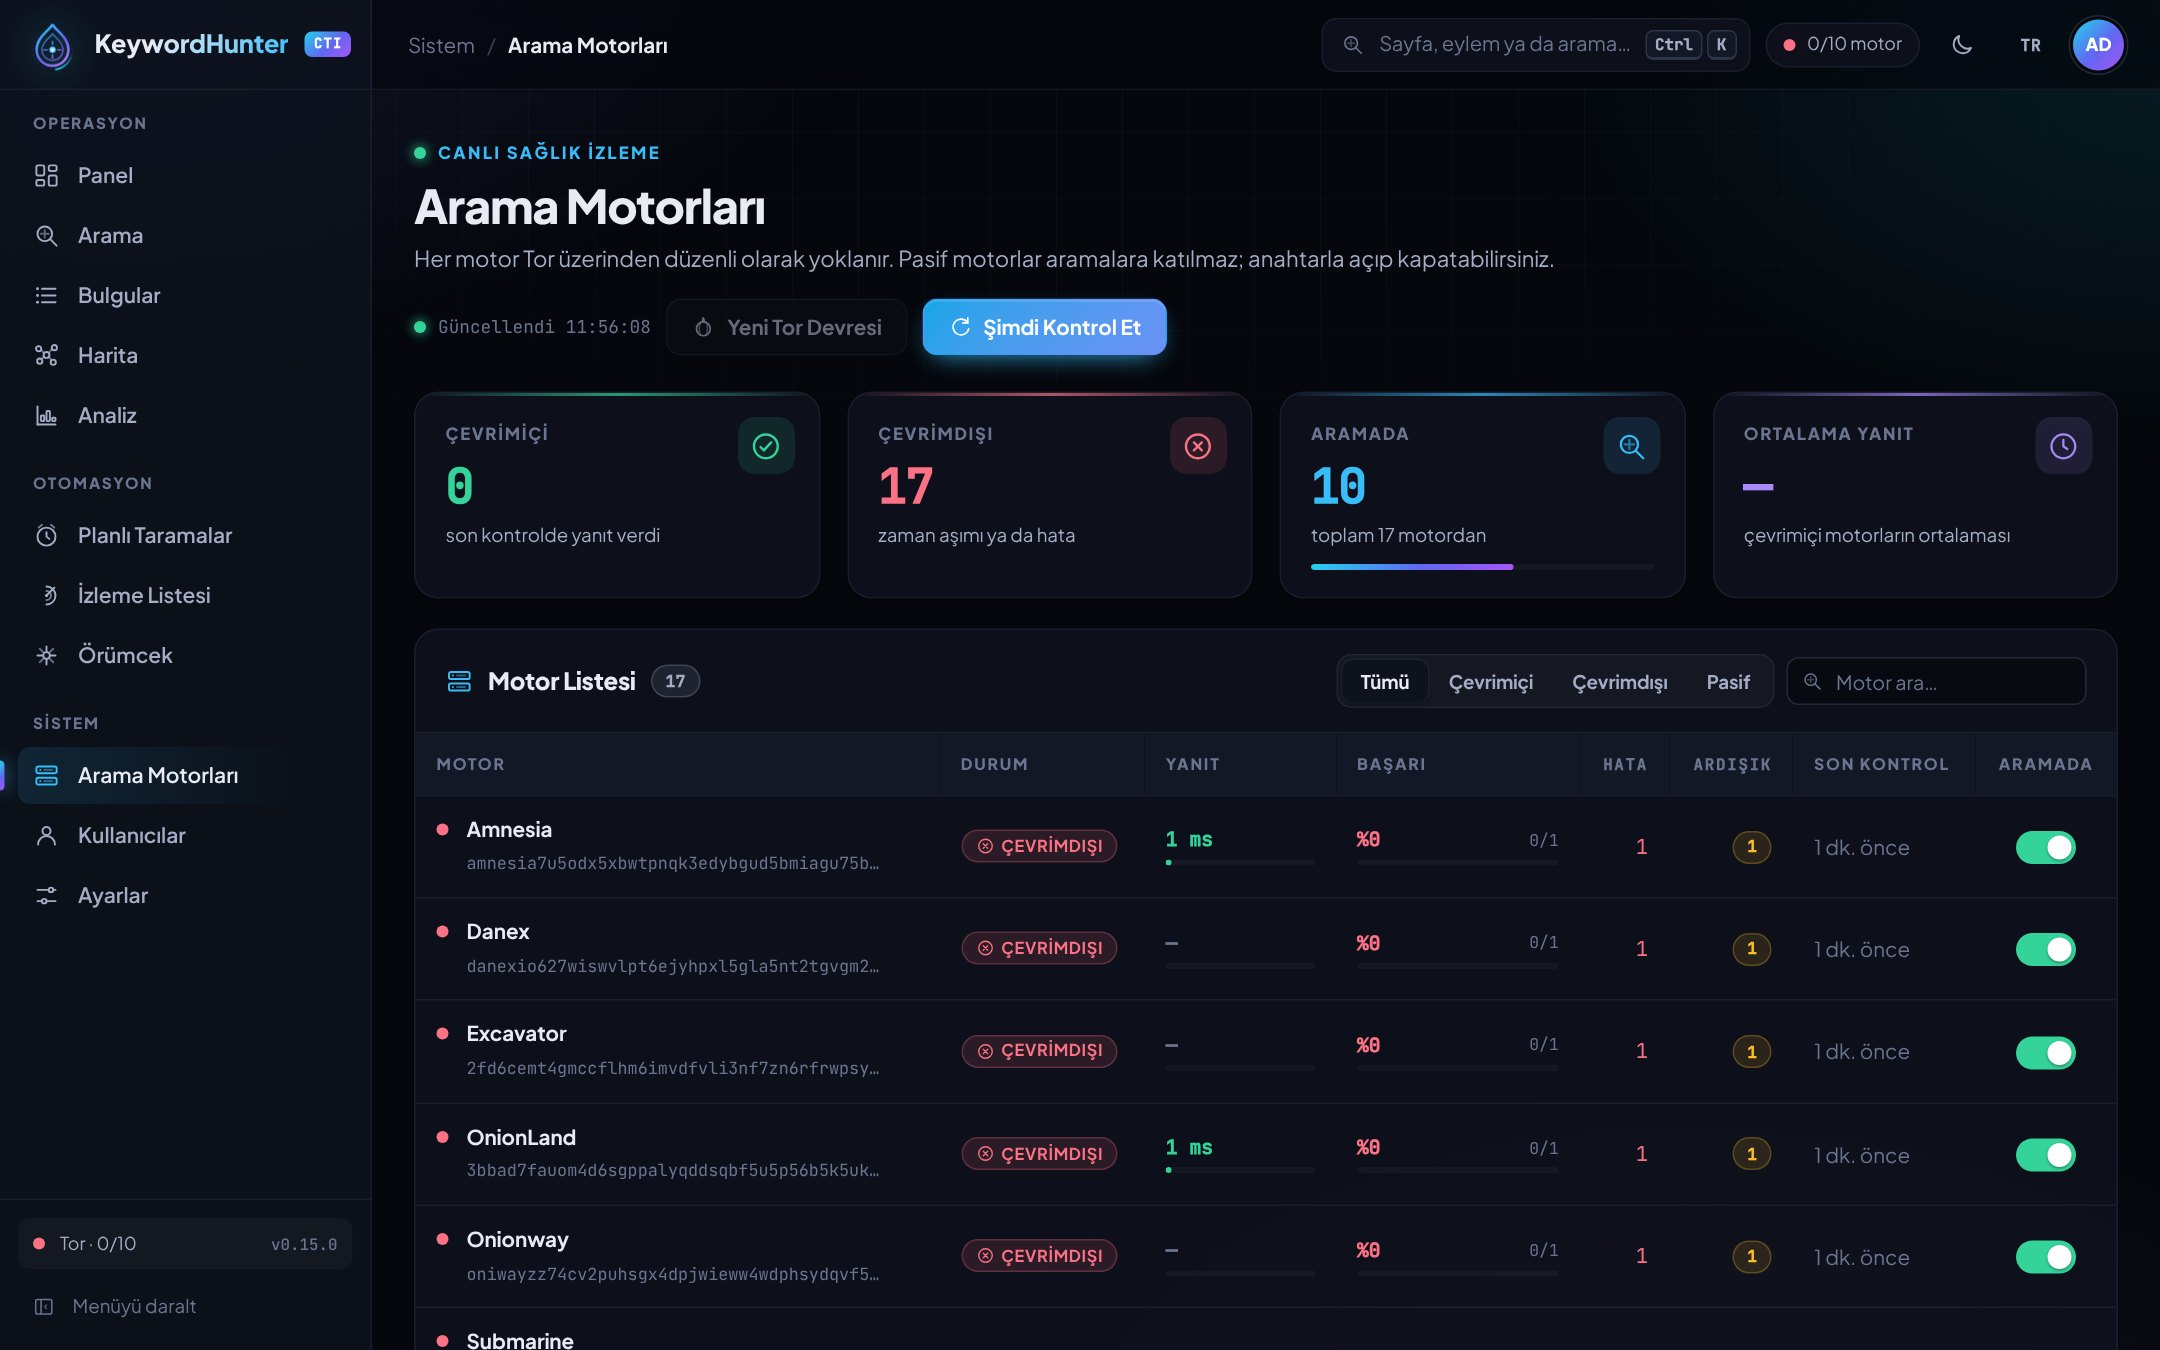
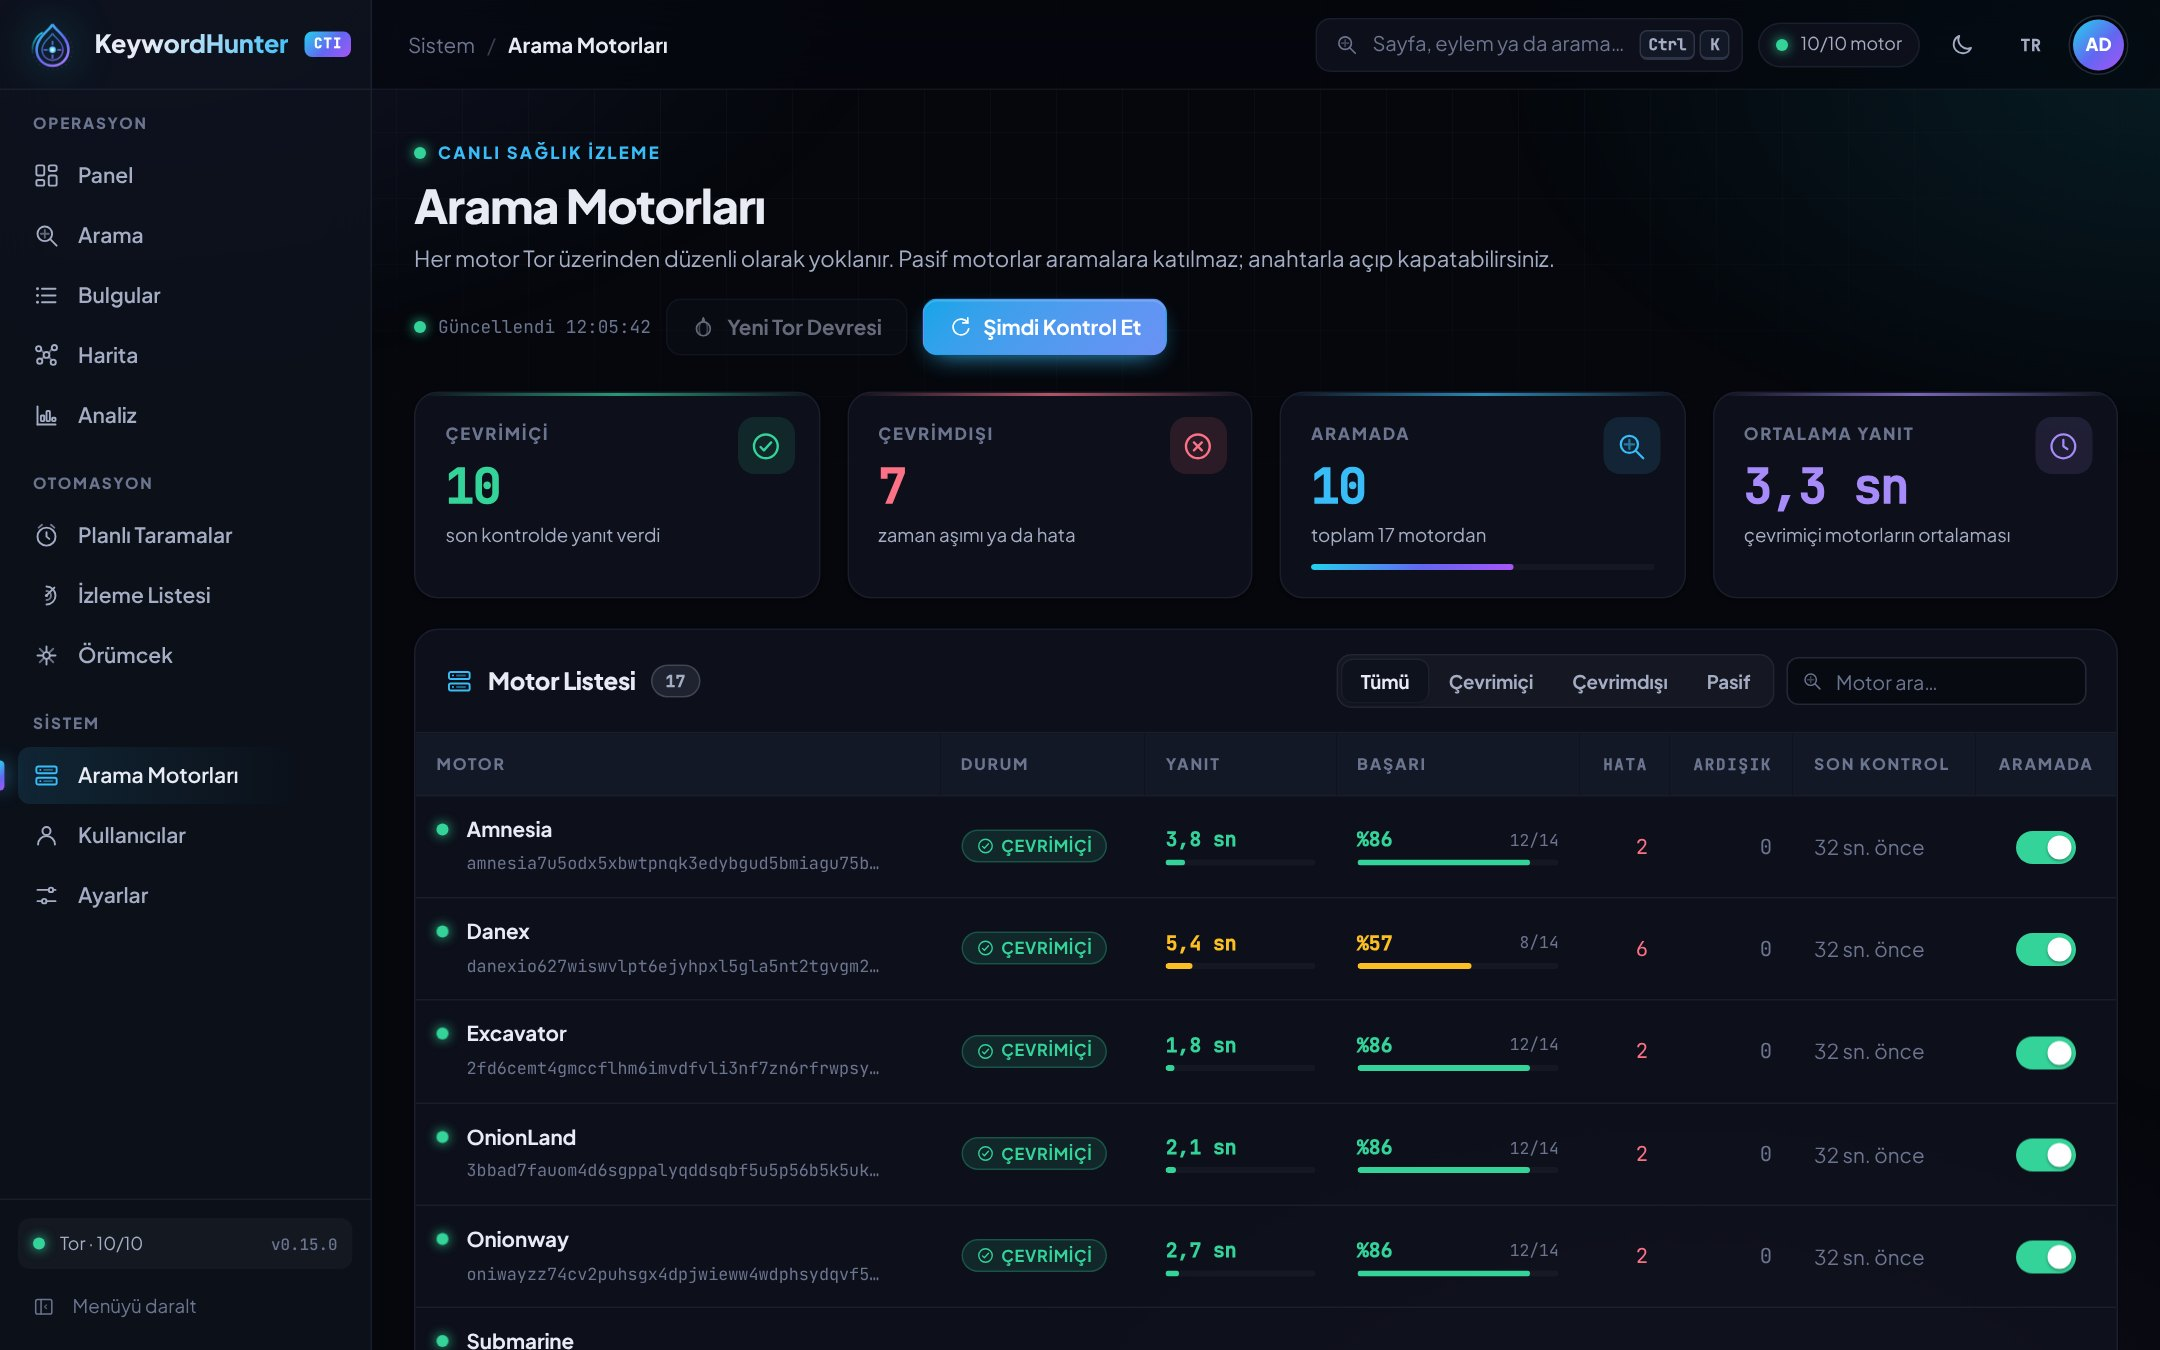
docs: ekran görüntüleri sağlıklı motor durumuyla yenilendi, galeri genişletildi
- Önceki görüntüler Tor'suz ortamda çekildiği için tüm motorlar çevrimdışı
  (kırmızı) görünüyordu; demo veritabanında gerçekçi motor sağlığıyla yeniden çekildi
- Planlı taramalar ve açık tema görüntüleri README galerisine eklendi

Claude-Session: https://claude.ai/code/session_01Kdg9fz88HBQwT4d3xqkzoR

diff --git a/README.md b/README.md
@@ -112,7 +112,8 @@ değiştiğinde kullanıcı özelleştirmeleri korunur.
 | <img src="docs/screenshots/login.jpg" alt="Giriş"> **Giriş** — canlı radar, kilitleme geri sayımı | <img src="docs/screenshots/search.jpg" alt="Arama"> **Arama** — eşzamanlı motor taraması |
 | <img src="docs/screenshots/results.jpg" alt="Bulgular"> **Bulgular** — filtre, vaka yönetimi, toplu işlem | <img src="docs/screenshots/graph.jpg" alt="Harita"> **Harita** — ilişki grafiği ve derinleştirme |
 | <img src="docs/screenshots/analytics.jpg" alt="Analiz"> **Analiz** — tema duyarlı grafikler | <img src="docs/screenshots/watchlist.jpg" alt="İzleme"> **İzleme Listesi** — uptime, değişiklik, captcha |
-| <img src="docs/screenshots/monitor.jpg" alt="Motorlar"> **Motorlar** — canlı sağlık ve aç/kapat | <img src="docs/screenshots/palette.jpg" alt="Komut paleti"> **Komut paleti** — <kbd>Ctrl</kbd>+<kbd>K</kbd> |
+| <img src="docs/screenshots/monitor.jpg" alt="Motorlar"> **Motorlar** — canlı sağlık ve aç/kapat | <img src="docs/screenshots/scheduled.jpg" alt="Planlı taramalar"> **Planlı Taramalar** — webhook bildirim merkezi |
+| <img src="docs/screenshots/palette.jpg" alt="Komut paleti"> **Komut paleti** — <kbd>Ctrl</kbd>+<kbd>K</kbd> | <img src="docs/screenshots/dashboard-light.jpg" alt="Açık tema"> **Açık tema** — tek tıkla ya da sistemle uyumlu |
 
 <p align="center"><img src="docs/screenshots/mobile.jpg" alt="Mobil görünüm" width="300"></p>
 

diff --git a/README.en.md b/README.en.md
@@ -79,7 +79,8 @@ customisations survive engine list updates.
 | <img src="docs/screenshots/login.jpg" alt="Sign in"> **Sign in** | <img src="docs/screenshots/search.jpg" alt="Search"> **Search** |
 | <img src="docs/screenshots/results.jpg" alt="Findings"> **Findings** | <img src="docs/screenshots/graph.jpg" alt="Map"> **Map** |
 | <img src="docs/screenshots/analytics.jpg" alt="Analytics"> **Analytics** | <img src="docs/screenshots/watchlist.jpg" alt="Watchlist"> **Watchlist** |
-| <img src="docs/screenshots/monitor.jpg" alt="Engines"> **Engines** | <img src="docs/screenshots/palette.jpg" alt="Command palette"> **Command palette** |
+| <img src="docs/screenshots/monitor.jpg" alt="Engines"> **Engines** | <img src="docs/screenshots/scheduled.jpg" alt="Scheduled scans"> **Scheduled scans** |
+| <img src="docs/screenshots/palette.jpg" alt="Command palette"> **Command palette** | <img src="docs/screenshots/dashboard-light.jpg" alt="Light theme"> **Light theme** |
 
 ## 🛡 Security model
 
